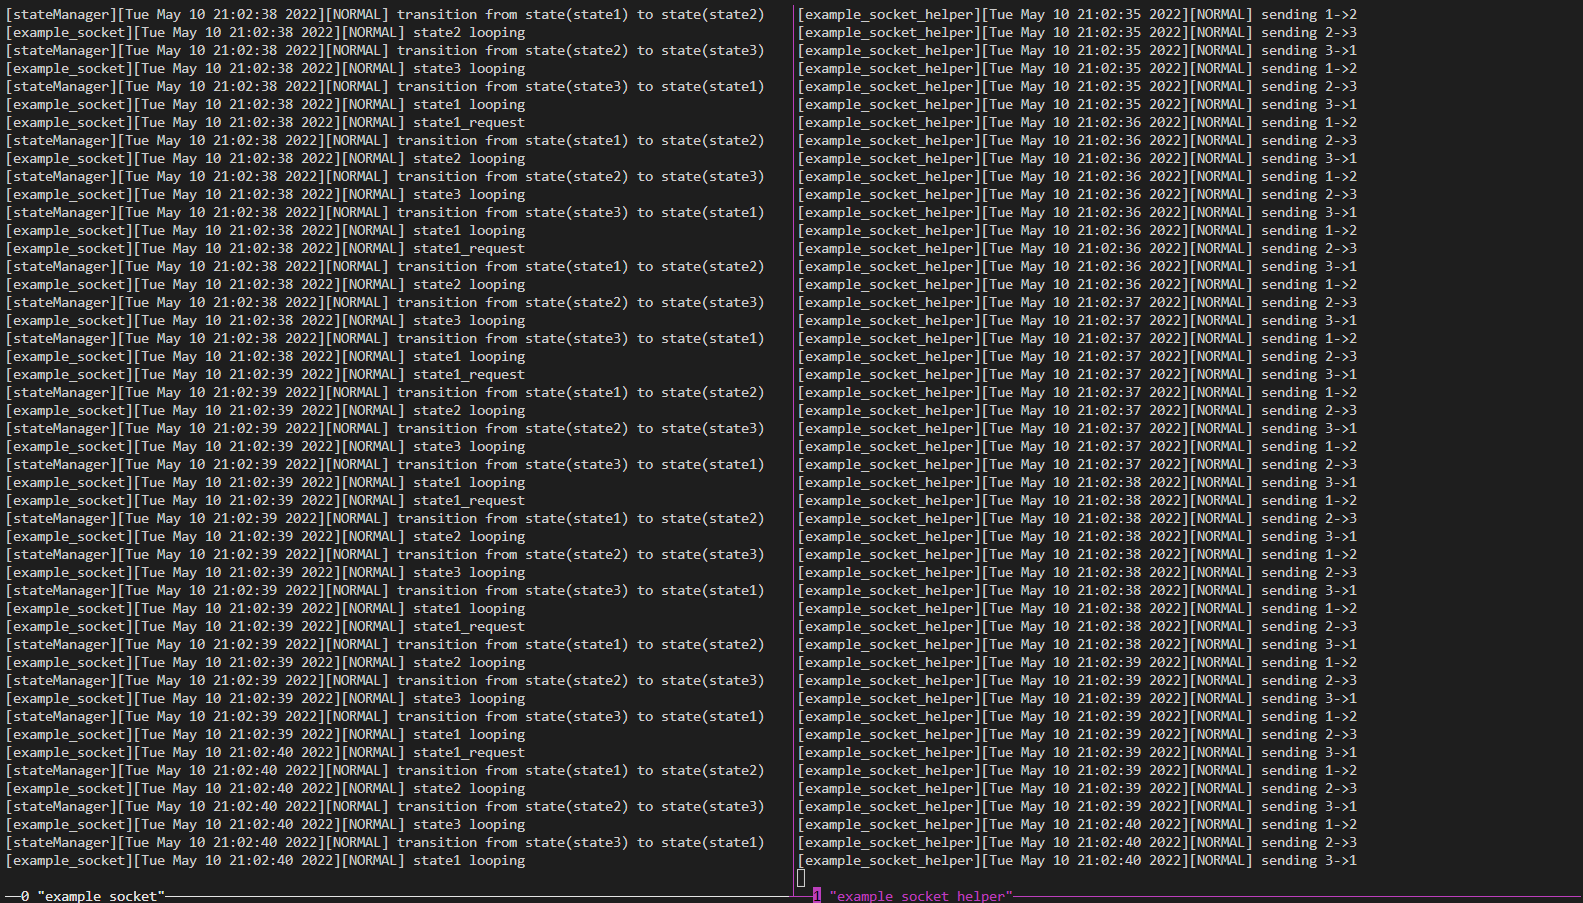
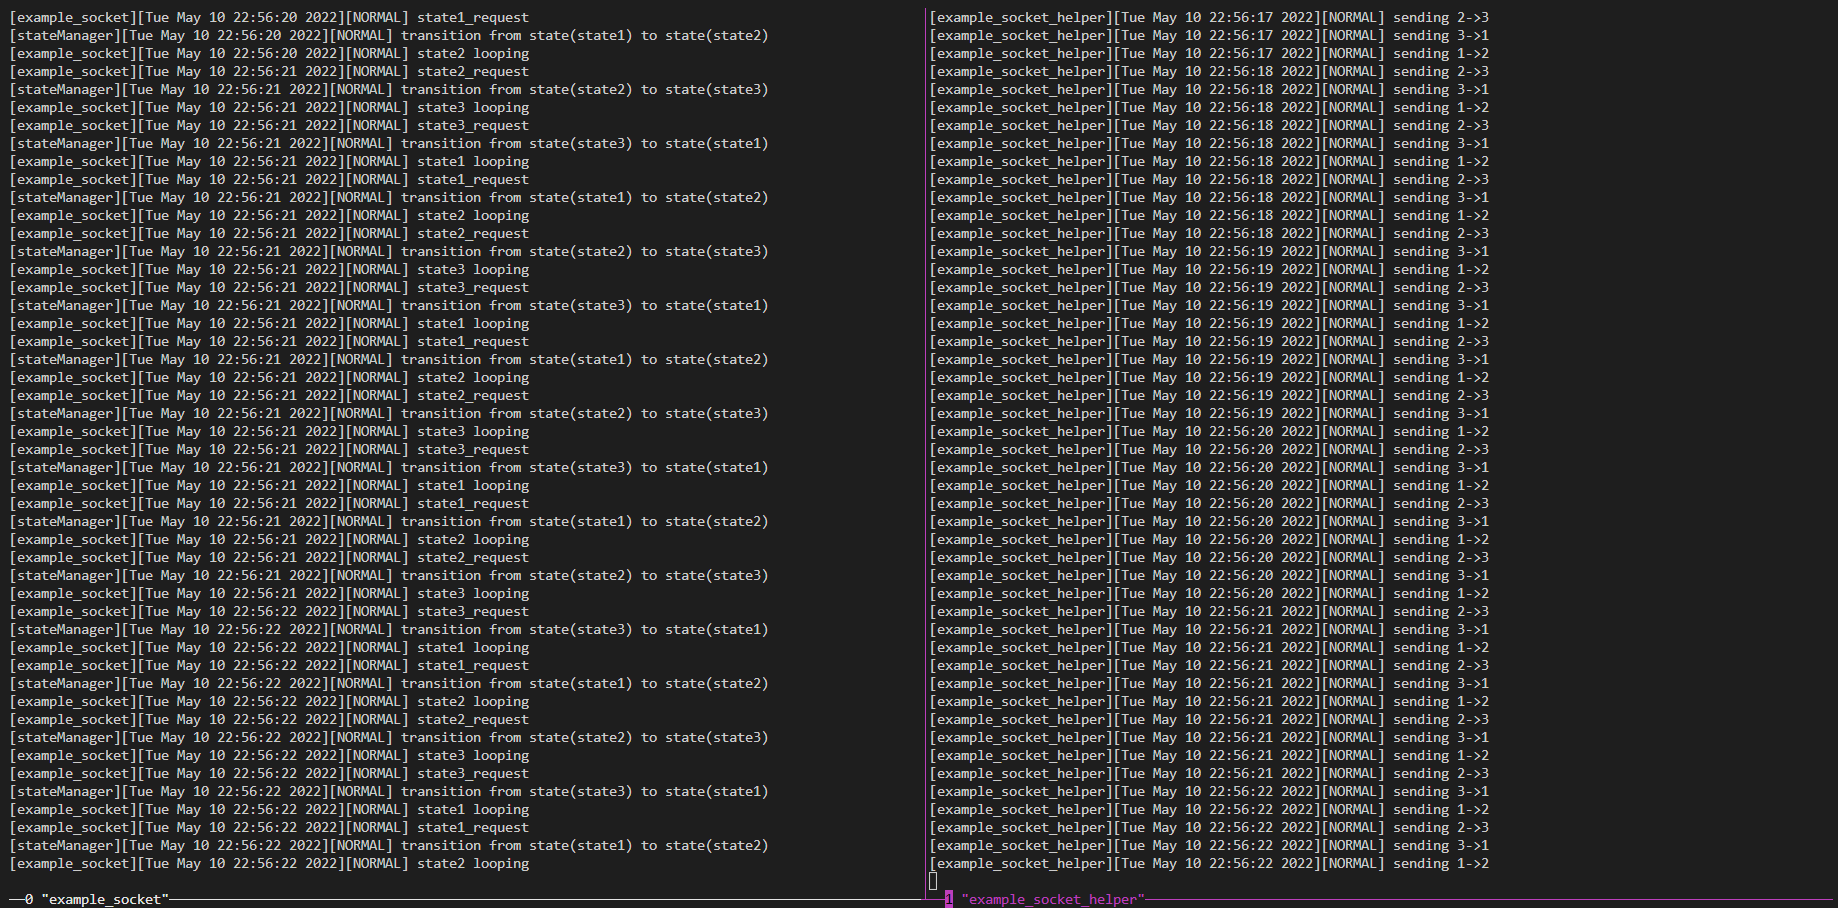
add make install commands

diff --git a/example/example_socket.cpp b/example/example_socket.cpp
@@ -79,6 +79,7 @@ int main(int argc, char const* argv[])
     STATEMANAGER->register_transistion_func(state2, state3, 1, [&]()->bool{
         std::string request = "request from state2";
         send(sock, request.c_str(), strlen(request.c_str()), 0);
+        SIMPLELOGEXAMPLE(NORMAL, "state2_request");
         valread = read(sock, buffer, 1024);
         std::string buffer_str(buffer);
 
@@ -93,6 +94,7 @@ int main(int argc, char const* argv[])
     STATEMANAGER->register_transistion_func(state3, state1, 1, [&]()->bool{
         std::string request = "request from state3";
         send(sock, request.c_str(), strlen(request.c_str()), 0);
+        SIMPLELOGEXAMPLE(NORMAL, "state3_request");
         valread = read(sock, buffer, 1024);
         std::string buffer_str(buffer);
 

diff --git a/simpleStateMachine.hpp b/simpleStateMachine.hpp
@@ -1,2 +1,2 @@
-#include "basicState/basicState.hpp"
-#include "stateManager/stateManager.hpp"
+#include "basicState.hpp"
+#include "stateManager.hpp"

diff --git a/readMe.md b/readMe.md
@@ -37,7 +37,7 @@ the basic usage could be found in the `example/` folder, which include two sets 
 ---
 
 for `example_zmq` and `example_zmq_helper`, it use the built-in zmq function. it require libs including zmqpp, zmq, sodium.
-running the following command to build them, notice the `example_zmq_helper` will be built in `example` folder
+running the following command to build them, notice the `example_zmq_helper` will be built in `example` folder.
 ```bash
 mkdir build
 cd build
@@ -49,7 +49,8 @@ cmake --build .
 ---
 
 for `example_socket` and `example_socket_helper`, it does not use the built-in zmq function and it use socket instead.
-running the following command to build them, notice the `example_socket_helper` will be built in `example` folder
+**Notice**: due to the design of `example_socket`, run `example_socket_helper` before `example_socket`. also, this is just a simple socket connection for illustration, as long as one end disconnected, the whole system would then stopped. to make stateManager could deconstructed correctly, further operations are needed.
+running the following command to build them, notice the `example_socket_helper` will be built in `example` folder.
 ```bash
 mkdir build
 cd build
@@ -68,7 +69,7 @@ cmake --build .
 
 ### build & install
 - [x] build
-- [ ] install
+- [x] install
 
 ## special thanks
 
